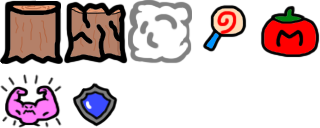
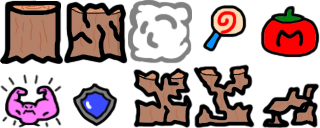
ajout des blocs cassables

Changed region(s): [[0.4062, 0.5, 1.0, 1.0]]

diff --git a/Platformer/Platformer_DynamicProjectile.cpp b/Platformer/Platformer_DynamicProjectile.cpp
@@ -82,6 +82,9 @@ void cDynamicProjectile::Collision(float fElapsedTime, cLevel* level)
 	if (bAffectedByGravity)
 		vy += engine->GetGravityValue() * fElapsedTime;
 
+	if (bFriendly)
+		CheckBreakableBlocks(level, fNewObjectPosX, fBorder, fNewObjectPosY);
+
 	if (bSolidVsMap)
 	{
 		if (vx <= 0) // Moving Left
@@ -152,6 +155,44 @@ void cDynamicProjectile::Collision(float fElapsedTime, cLevel* level)
 
 	px = fNewObjectPosX;
 	py = fNewObjectPosY;
+}
+
+void cDynamicProjectile::CheckBreakableBlocks(cLevel* level, float fNewObjectPosX, float fBorder, float fNewObjectPosY)
+{
+	// TODO utiliser la hitbox
+	BreakTile(level, fNewObjectPosX + fBorder, fNewObjectPosY + fBorder);
+	BreakTile(level, fNewObjectPosX + fBorder, fNewObjectPosY + (fDynHeight / engine->GetTileHeight()) - fBorder);
+	BreakTile(level, fNewObjectPosX + ((fDynWidth / engine->GetTileWidth()) - fBorder), fNewObjectPosY + fBorder);
+	BreakTile(level, fNewObjectPosX + ((fDynWidth / engine->GetTileWidth()) - fBorder), fNewObjectPosY + (fDynHeight / engine->GetTileHeight()) - fBorder);
+
+	BreakTile(level, fNewObjectPosX + fBorder, fNewObjectPosY + ((fDynHeight / engine->GetTileHeight()) / 2.0f));
+	BreakTile(level, fNewObjectPosX + ((fDynWidth / engine->GetTileWidth()) - fBorder), fNewObjectPosY + ((fDynHeight / engine->GetTileHeight()) / 2.0f));
+	BreakTile(level, fNewObjectPosX + ((fDynWidth / engine->GetTileWidth()) / 2.0f), fNewObjectPosY + fBorder);
+	BreakTile(level, fNewObjectPosX + ((fDynWidth / engine->GetTileWidth()) / 2.0f), fNewObjectPosY + (fDynHeight / engine->GetTileHeight()) - fBorder);
+}
+
+void cDynamicProjectile::BreakTile(cLevel* level, float tileX, float tileY)
+{
+	for (auto& t : crossedTiles)
+	{
+		std::vector<olc::vf2d>::iterator it;
+		olc::vf2d tile((int)tileX, (int)tileY);
+		it = find(crossedTiles.begin(), crossedTiles.end(), tile);
+		if (it != crossedTiles.end())
+			return;
+	}
+
+	if (level->GetTile(tileX, tileY) == L'H') ChangeTile(level, tileX, tileY, L'x');
+	if (level->GetTile(tileX, tileY) == L'P') ChangeTile(level, tileX, tileY, L'H');
+	if (level->GetTile(tileX, tileY) == L'B') ChangeTile(level, tileX, tileY, L'P');
+}
+
+void cDynamicProjectile::ChangeTile(cLevel* level, float tileX, float tileY, wchar_t t)
+{
+	level->SetTile(tileX, tileY, t);
+	olc::vf2d tile((int)tileX, (int)tileY);
+	crossedTiles.push_back(tile);
+	PlaySoundEffect();
 }
 
 void cDynamicProjectile::UpdateHitbox(float cameraOffsetX, float cameraOffsetY)

diff --git a/Platformer/Platformer_Level.cpp b/Platformer/Platformer_Level.cpp
@@ -326,11 +326,18 @@ void cLevel::SelectTile(int startX, int endX, int nVisibleTilesX, int nVisibleTi
 				case L'd': // Defense boost
 					engine->DrawPartialSprite(x * engine->GetTileWidth() - fTileOffsetX, y * engine->GetTileHeight() - fTileOffsetY, engine->GetTilesSprites(), 1 * engine->GetTileWidth(), 1 * engine->GetTileHeight(), engine->GetTileWidth(), engine->GetTileHeight());
 					break;
+				case L'P': // Partially broken Block
+					engine->DrawPartialSprite(x * engine->GetTileWidth() - fTileOffsetX, y * engine->GetTileHeight() - fTileOffsetY, engine->GetTilesSprites(), 2 * engine->GetTileWidth(), 1 * engine->GetTileHeight(), engine->GetTileWidth(), engine->GetTileHeight());
+					break;
+				case L'H': // Heavily damaged Block
+					engine->DrawPartialSprite(x * engine->GetTileWidth() - fTileOffsetX, y * engine->GetTileHeight() - fTileOffsetY, engine->GetTilesSprites(), 3 * engine->GetTileWidth(), 1 * engine->GetTileHeight(), engine->GetTileWidth(), engine->GetTileHeight());
+					break;
+				case L'x': // Broken Block
+					engine->DrawPartialSprite(x * engine->GetTileWidth() - fTileOffsetX, y * engine->GetTileHeight() - fTileOffsetY, engine->GetTilesSprites(), 4 * engine->GetTileWidth(), 1 * engine->GetTileHeight(), engine->GetTileWidth(), engine->GetTileHeight());
+					break;
 				case L'w': // Door
 					engine->DrawPartialSprite(x * engine->GetTileWidth() - fTileOffsetX, y * engine->GetTileHeight() - fTileOffsetY + (engine->GetTileHeight() - engine->GetDoorSpr()->height) + 5.0f, engine->GetDoorSpr(), 0, 0, engine->GetDoorSpr()->width, engine->GetDoorSpr()->height);
 					break;
-					// TODO
-					/*ADD HERE THE NEW TILES*/
 			}
 		}
 	}

diff --git a/Platformer/Platformer_DynamicProjectile.h b/Platformer/Platformer_DynamicProjectile.h
@@ -18,6 +18,7 @@ protected:
 	const float cfMinGlideVX = 0.1;
 
 	std::vector<olc::Sprite*> mapStates;
+	std::vector<olc::vf2d> crossedTiles;
 	std::string soundEffect;
 	std::string bounceSoundEffect;
 	float fSpriteX;
@@ -41,6 +42,9 @@ public:
 	void DrawSelf(float ox, float oy) override;
 	void Update(float fElapsedTime, float playerX, float playerY) override;
 	void Collision(float fElapsedTime, cLevel* level);
+	void CheckBreakableBlocks(cLevel* level, float fNewObjectPosX, float fBorder, float fNewObjectPosY);
+	void BreakTile(cLevel* level, float tileX, float tileY);
+	void ChangeTile(cLevel* level, float tileX, float tileY, wchar_t t);
 	void UpdateHitbox(float cameraOffsetX, float cameraOffsetY) override;
 	void PlaySoundEffect();
 	static std::map<std::string, std::vector<olc::Sprite*>> LoadProjectilesSprites();

diff --git a/Platformer/Platformer_Engine.cpp b/Platformer/Platformer_Engine.cpp
@@ -854,7 +854,12 @@ bool OneLoneCoder_Platformer::GetAnyKey()
 bool OneLoneCoder_Platformer::IsSolidTile(wchar_t tile)
 {
 	// List Here all the tiles that are solid
-	return tile == '#' || tile == 'G' || tile == 'B';
+	return tile == '#' || tile == 'G' || tile == 'B' || tile == 'P' || tile == 'H';
+}
+
+bool OneLoneCoder_Platformer::IsBreakableTile(wchar_t tile)
+{
+	return tile == 'B' || tile == 'P' || tile == 'H';
 }
 
 bool OneLoneCoder_Platformer::IsSemiSolidTile(wchar_t tile)

diff --git a/Platformer/Platformer_Engine.h b/Platformer/Platformer_Engine.h
@@ -288,6 +288,7 @@ public:
 
 	// Level detection functions
 	bool IsSolidTile(wchar_t tile);
+	bool IsBreakableTile(wchar_t tile);
 	bool IsSemiSolidTile(wchar_t tile);
 
 	// Projectiles functions
